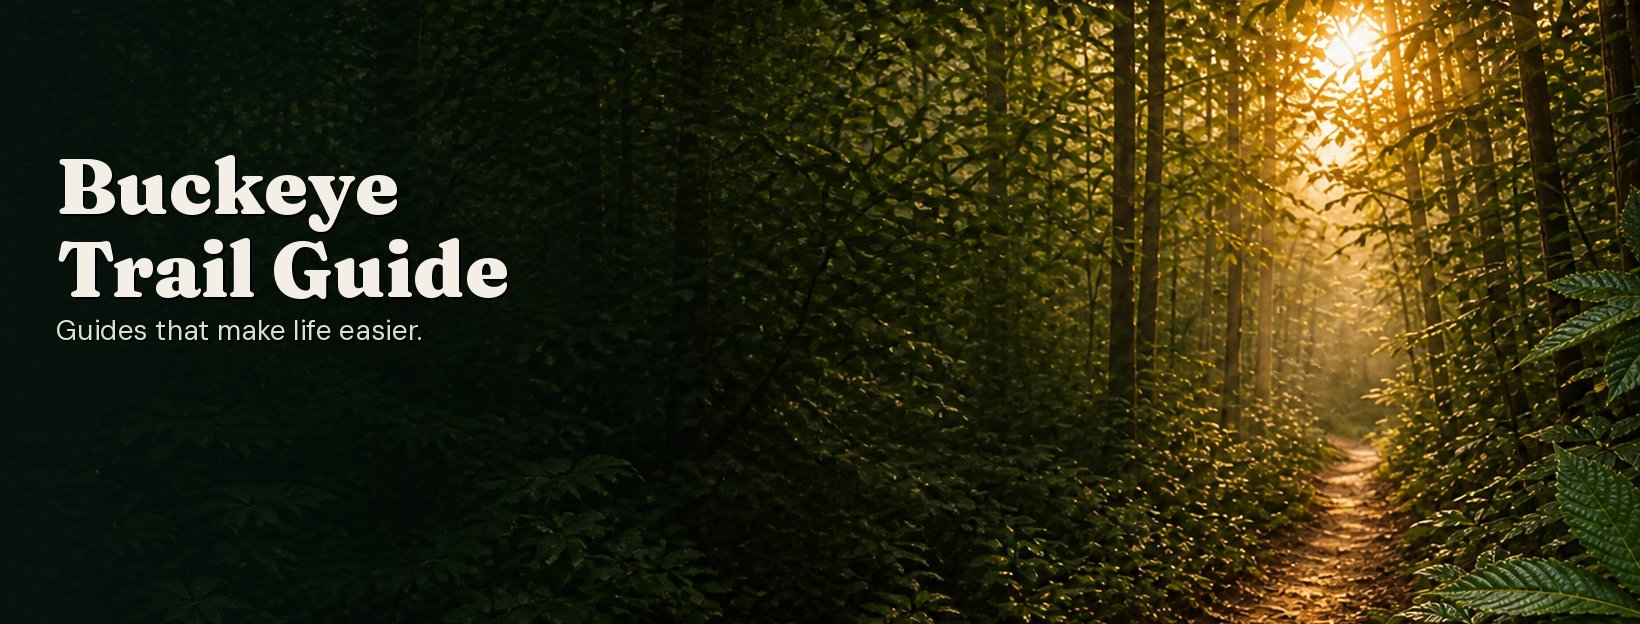
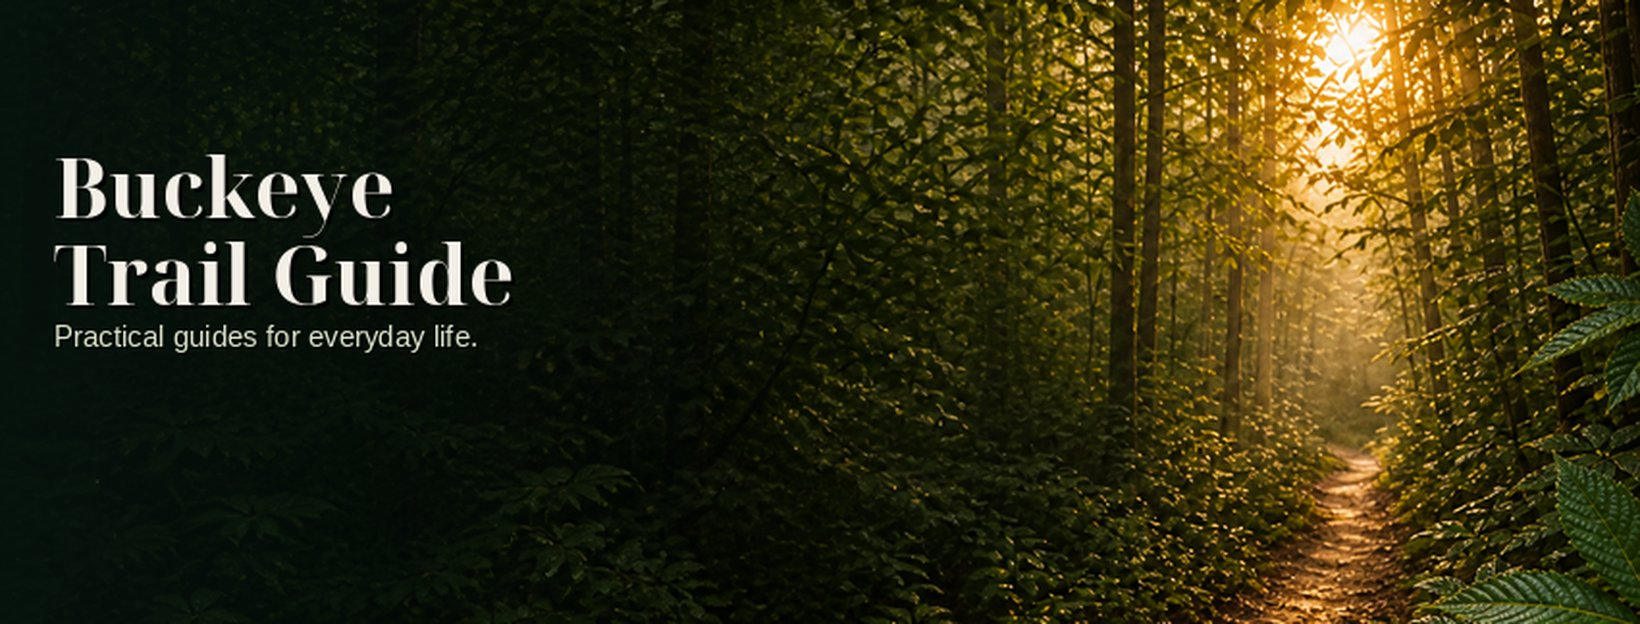
Reframe brand as everyday guides and cap all prices under $10
Rewrite brand copy away from outing-only positioning. Drop Move to Columbus from $24 to $9 and Fishing 30 from $12 to $9 so every SKU is under $10; sync Gumroad listings and shop bio.

diff --git a/buckeye-trail-guide/site/index.html b/buckeye-trail-guide/site/index.html
@@ -3,10 +3,10 @@
   <head>
     <meta charset="UTF-8" />
     <meta name="viewport" content="width=device-width, initial-scale=1.0" />
-    <title>Buckeye Trail Guide — Guides that make life easier</title>
+    <title>Buckeye Trail Guide — Practical guides for everyday life</title>
     <meta
       name="description"
-      content="A collection of guides curated by Clayton Householder, a Columbus Ohio native. Guides will be a variety of subject matter that spans a large domain from personal life to professional and anything that can make life easier."
+      content="Printable guides curated by Clayton Householder, a Columbus Ohio native. Topics span personal life, local know-how, settling in, planning, and everyday admin."
     />
     <link rel="preconnect" href="https://fonts.googleapis.com" />
     <link rel="preconnect" href="https://fonts.gstatic.com" crossorigin />
@@ -18,10 +18,10 @@
     <link rel="icon" type="image/png" sizes="64x64" href="/favicon-64.png" />
     <link rel="apple-touch-icon" href="/icon-192.png" />
     <meta property="og:type" content="website" />
-    <meta property="og:title" content="Buckeye Trail Guide — Guides that make life easier" />
+    <meta property="og:title" content="Buckeye Trail Guide — Practical guides for everyday life" />
     <meta
       property="og:description"
-      content="A collection of guides curated by Clayton Householder, a Columbus Ohio native."
+      content="Printable guides curated by Clayton Householder, a Columbus Ohio native. Personal life, local know-how, settling in, planning, and everyday admin."
     />
     <meta property="og:image" content="/og-image.png" />
     <meta name="twitter:card" content="summary" />

diff --git a/buckeye-trail-guide/site/src/catalog.js b/buckeye-trail-guide/site/src/catalog.js
@@ -1,8 +1,8 @@
 export const brand = {
   name: 'Buckeye Trail Guide',
-  tagline: 'Guides that make life easier.',
+  tagline: 'Practical guides for everyday life.',
   description:
-    'A collection of guides curated by Clayton Householder, a Columbus Ohio native. Guides will be a variety of subject matter that spans a large domain from personal life to professional and anything that can make life easier.',
+    'Printable guides curated by Clayton Householder, a Columbus Ohio native. Topics span personal life, local know-how, settling in, planning, and everyday admin — whatever helps you get the next thing done with less friction.',
   city: 'Columbus',
   curator: 'Clayton Householder',
   avatar: '/gumroad-avatar.png',
@@ -22,7 +22,7 @@ export const products = [
     id: 'move-in-pack',
     title: 'Move to Columbus',
     subtitle: 'Settling Pack + Spreadsheet',
-    price: 24,
+    price: 9,
     blurb: 'PDF checklists plus Excel: neighborhood scores, budget, apartment compare, rolodex.',
     gumroad: 'https://buckeyetrailguide.gumroad.com/l/move-to-columbus',
     cover: '/covers/move-in-pack.png',
@@ -67,7 +67,7 @@ export const products = [
     id: 'columbus-fishing-30',
     title: 'Top 30 Fishing Spots Around Columbus',
     subtitle: 'License + Local Tips',
-    price: 12,
+    price: 9,
     blurb: 'Fish species, bait tips, and website links for 30 spots — bring your license and go.',
     gumroad: 'https://buckeyetrailguide.gumroad.com/l/columbus-fishing-30',
     cover: '/covers/columbus-fishing-30.png',

diff --git a/buckeye-trail-guide/publisher/src/catalog.js b/buckeye-trail-guide/publisher/src/catalog.js
@@ -69,7 +69,7 @@ function buildDescriptionHtml(meta, dir) {
   const bullets = (meta.bullets || []).map((b) => `<li>${escapeHtml(b)}</li>`).join('');
   let body = `<p>${escapeHtml(meta.oneLiner || '')}</p>`;
   if (bullets) body += `<p><strong>Includes:</strong></p><ul>${bullets}</ul>`;
-  body += `<p>From <strong>Buckeye Trail Guide</strong> — a collection of guides curated by Clayton Householder, a Columbus Ohio native. Guides will be a variety of subject matter that spans a large domain from personal life to professional and anything that can make life easier.</p>`;
+  body += `<p>From <strong>Buckeye Trail Guide</strong> — printable guides curated by Clayton Householder, a Columbus Ohio native. Topics span personal life, local know-how, settling in, planning, and everyday admin — whatever helps you get the next thing done with less friction.</p>`;
   if (fs.existsSync(mdPath)) {
     // Keep HTML lean for marketplaces; full content is in the PDF.
     body += `<p>Full printable guide included in the download.</p>`;

diff --git a/buckeye-trail-guide/README.md b/buckeye-trail-guide/README.md
@@ -1,6 +1,6 @@
 # Buckeye Trail Guide
 
-A collection of guides curated by **Clayton Householder**, a Columbus Ohio native. Guides will be a variety of subject matter that spans a large domain from personal life to professional and anything that can make life easier.
+Printable guides curated by **Clayton Householder**, a Columbus Ohio native. Topics span personal life, local know-how, settling in, planning, and everyday admin — whatever helps you get the next thing done with less friction.
 
 Built to be expanded by Cursor: add a product folder, update the catalog, ship.
 
@@ -34,11 +34,12 @@ npm run dev
 | SKU | Price | Folder | Gumroad |
 | --- | --- | --- | --- |
 | Weekend in Columbus — 48-Hour Field Kit | $9 | `products/weekend-columbus` | [live](https://buckeyetrailguide.gumroad.com/l/weekend-columbus) |
-| Move to Columbus — Settling Pack + Spreadsheet | $24 | `products/move-in-pack` | [live](https://buckeyetrailguide.gumroad.com/l/move-to-columbus) |
+| Move to Columbus — Settling Pack + Spreadsheet | $9 | `products/move-in-pack` | [live](https://buckeyetrailguide.gumroad.com/l/move-to-columbus) |
 | Stadium Weekend Logistics Sheet | $7 | `products/stadium-weekend` | [live](https://buckeyetrailguide.gumroad.com/l/stadium-weekend) |
 | Hocking Hills Day Trip — From Columbus | $8 | `products/hocking-hills-day` | [live](https://buckeyetrailguide.gumroad.com/l/hocking-hills-day) |
 | Top 15 Super Natural Experiences in Columbus — Under $15 Each | $9 | `products/columbus-nature-15` | [live](https://buckeyetrailguide.gumroad.com/l/columbus-nature-15) |
 | Columbus Supernatural / Paranormal Experiences — Under $30 Each | $2 | `products/columbus-supernatural` | [live](https://buckeyetrailguide.gumroad.com/l/columbus-supernatural) |
+| Top 30 Fishing Spots Around Columbus, Ohio | $9 | `products/columbus-fishing-30` | [live](https://buckeyetrailguide.gumroad.com/l/columbus-fishing-30) |
 
 ## Publisher (auto-deploy)
 

diff --git a/buckeye-trail-guide/launch/gumroad-copy.md b/buckeye-trail-guide/launch/gumroad-copy.md
@@ -30,10 +30,10 @@ File to upload: export `products/weekend-columbus/product.md` → PDF
 
 ---
 
-## Product 2 — Move to Columbus — Settling Pack — $24
+## Product 2 — Move to Columbus — Settling Pack — $9
 
 **Title:** Move to Columbus — Settling Pack (PDF + Excel)  
-**Price:** $24  
+**Price:** $9  
 **Summary:**  
 First-30-days relocation pack for Columbus — printable PDF checklists **plus** a fillable Excel workbook (scorecard, budget, apartment compare, rolodex).
 
@@ -174,10 +174,10 @@ File: `products/columbus-supernatural/product.pdf`
 
 ---
 
-## Product 7 — Top 30 Fishing Spots Around Columbus, Ohio — $12
+## Product 7 — Top 30 Fishing Spots Around Columbus, Ohio — $9
 
 **Title:** Top 30 Fishing Spots Around Columbus, Ohio  
-**Price:** $12  
+**Price:** $9  
 **Summary:**  
 Thirty fishing spots near Columbus — fish species, preferred bait, website links, and local tips. Bring your Ohio license.
 
@@ -200,9 +200,9 @@ File: `products/columbus-fishing-30/product.pdf`
 
 ---
 
-## Bundle (optional) — Central Ohio Starter Trio — $34
+## Bundle (optional) — Central Ohio Starter Trio — $22
 
-First three kits ($9 + $24 + $7 = $40). Bundle at **$34** (save $6).
+First three kits ($9 + $9 + $7 = $25). Bundle at **$22** (save $3).
 
 ## Bundle (optional) — Day-Trip Add-On — $14
 

diff --git a/buckeye-trail-guide/PRODUCT_FACTORY.md b/buckeye-trail-guide/PRODUCT_FACTORY.md
@@ -6,7 +6,7 @@ When you want a new product, paste this prompt into Cursor:
 
 Create a new Buckeye Trail Guide digital download.
 
-**Brand:** Buckeye Trail Guide — a collection of guides curated by Clayton Householder, a Columbus Ohio native. Guides will be a variety of subject matter that spans a large domain from personal life to professional and anything that can make life easier.
+**Brand:** Buckeye Trail Guide — printable guides curated by Clayton Householder, a Columbus Ohio native. Topics span personal life, local know-how, settling in, planning, and everyday admin — whatever helps you get the next thing done with less friction.
 
 **Constraints:** Never banking, cybersecurity, Wells Fargo, PAM, or employer topics. Avoid trademarked university/team logos; use generic wording where needed.
 
@@ -40,7 +40,7 @@ Create a new Buckeye Trail Guide digital download.
 - No trademarked team/university logos in imagery.
 - After generating, upload the square thumbnail to Gumroad for that product (API or dashboard).
 
-**Pricing guide:** single sheet $5–$9 · pack $15–$29 · bundle $39
+**Pricing guide:** every product **under $10** (typical $5–$9). Prefer simple single-price digital downloads over premium packs.
 
 ---
 

diff --git a/buckeye-trail-guide/launch/CHECKLIST.md b/buckeye-trail-guide/launch/CHECKLIST.md
@@ -51,12 +51,12 @@ Manual fallback: paste copy from `gumroad-copy.md` and upload PDFs in each dashb
 ### Live on Gumroad
 
 - [x] Weekend in Columbus — $9
-- [x] Move to Columbus — $24
+- [x] Move to Columbus — $9
 - [x] Stadium Weekend — $7
 - [x] Hocking Hills Day Trip — $8
 - [x] Top 15 Super Natural Experiences in Columbus — Under $15 Each — $9
 - [x] Columbus Supernatural / Paranormal Experiences — Under $30 Each — $2
-- [x] Top 30 Fishing Spots Around Columbus, Ohio — $12
+- [x] Top 30 Fishing Spots Around Columbus, Ohio — $9
 
 ## 4) Deploy site
 

diff --git a/buckeye-trail-guide/launch/soft-launch-posts.md b/buckeye-trail-guide/launch/soft-launch-posts.md
@@ -19,7 +19,7 @@ Shop: https://buckeyetrailguide.gumroad.com
 
 ## Personal LinkedIn
 
-Side project outside work: **Buckeye Trail Guide** — practical digital guides for Columbus life (weekends, moving, day trips).
+Side project outside work: **Buckeye Trail Guide** — practical printable guides (personal life, local know-how, settling in, planning, everyday admin).
 
 Not affiliated with my employer. Built as simple printable downloads.
 
